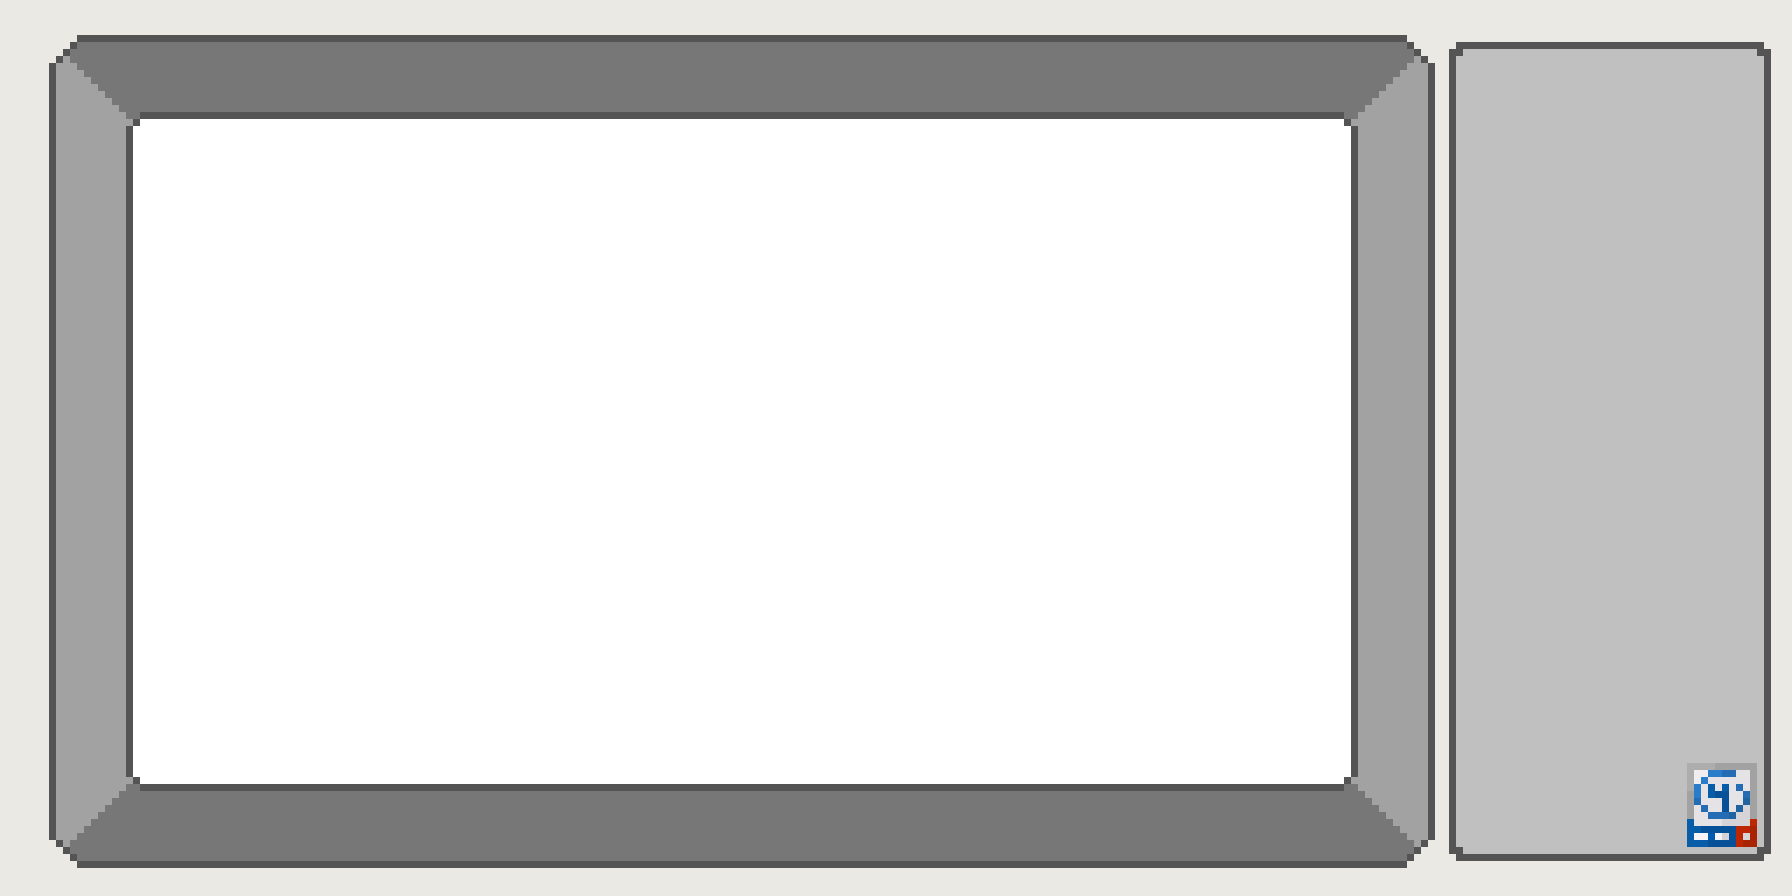
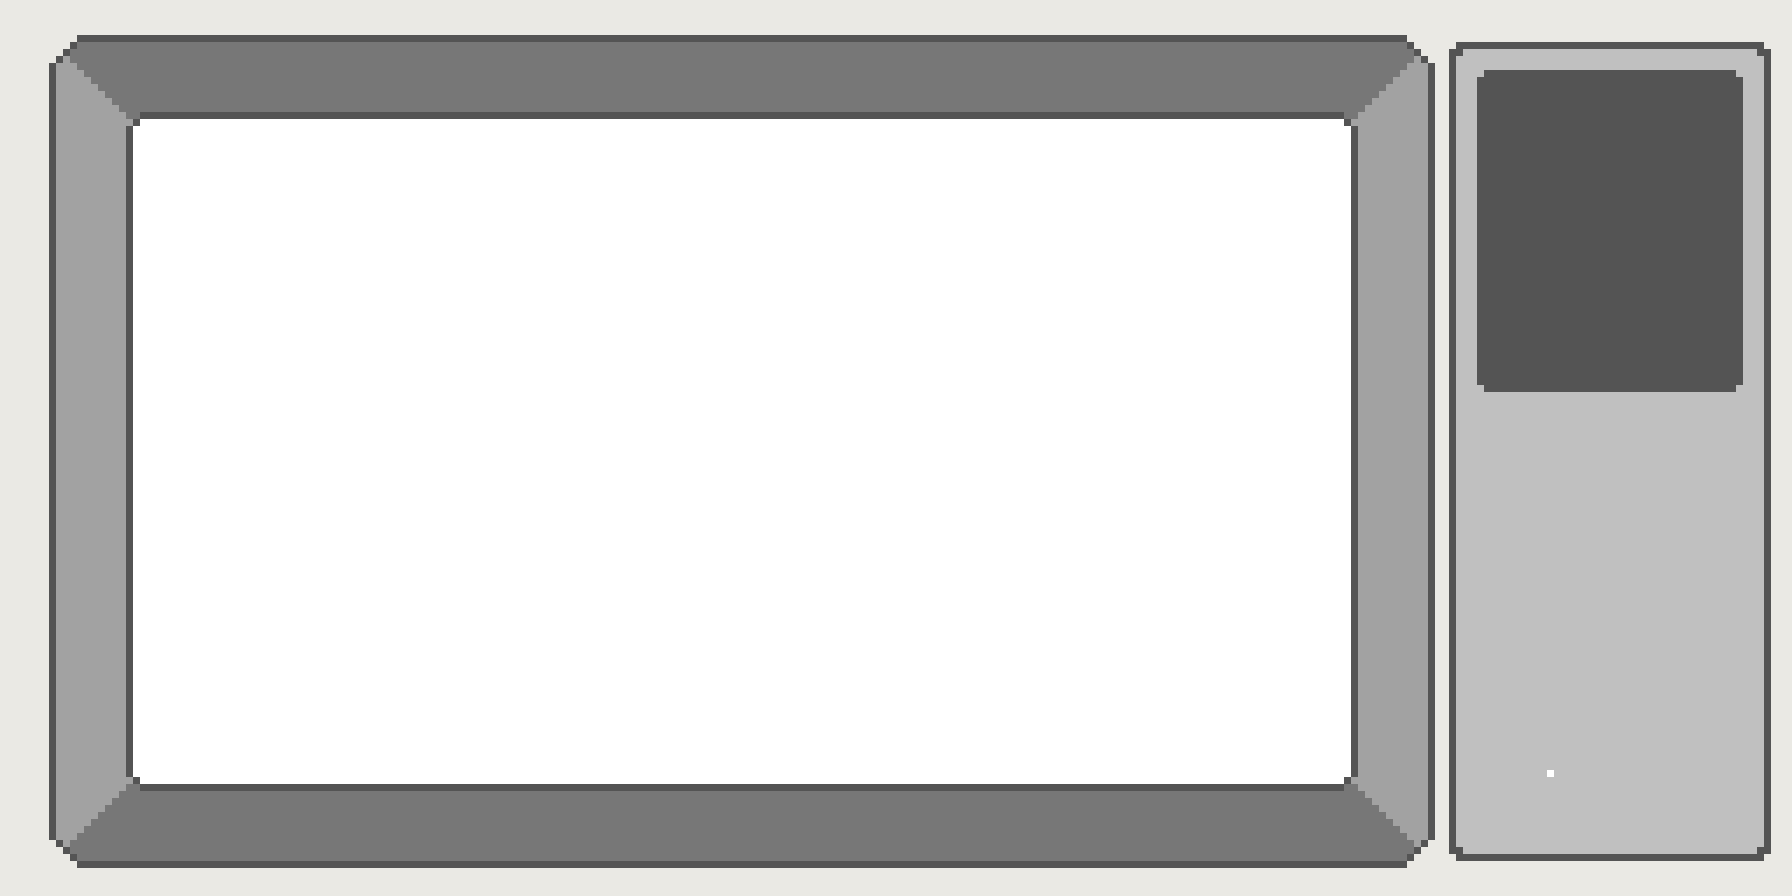
wave y nueva barra

Changed region(s): [[0.8125, 0.0625, 1.0, 0.4375], [0.9375, 0.8438, 1.0, 0.9688]]

diff --git a/js/script.js b/js/script.js
@@ -6,13 +6,39 @@ var bookaboutme = new BookAboutMe();
 var spacescreen= new SpaceScreen();
 var connect4 = new Connect4();
 
-
+function hashGet(){
+    switch(location.hash){
+        case '#Arcade': newstage=2; stage=2; state=0; break;
+        case '#SobreMi': newstage=100; stage=100; state=0; break;
+        case '#Connected4': newstage=101; stage=101; state=0; break;
+        case '#Space': newstage=1; stage=1; state=0; break;
+        case '#Start': newstage=0; stage=0; state=0; break;
+        case '#Pc': newstage=0; stage=0; state=1; break;
+    }
+    //console.log(location.hash)
+}
+hashGet();
+function hashSet(){
+    if(state==0){
+        switch(stage){
+            case 2: location.hash='#Arcade'; break;
+            case 100: location.hash='SobreMi'; break;
+            case 101: location.hash='Connected4'; break;
+            case 1: location.hash='Space'; break;
+            case 0: location.hash='Start'; break;
+        }
+    }else if(state==1){
+        location.hash='Pc'
+    }
+    //console.log(location.hash)
+}
+hashSet();
 
 var testtext='Lorem ipsum dolor sit amet consectetur adipiscing elit Sed felis lorem, rhoncus id accumsan id congue et justo. Fusce eget sem mollis';
 var dialogtext=new WriteParagraph(textConvert(testtext, 36),6,position={x:64,y:82}, 121,25,'black',7,true) 
 var dialog=false  
 var colors=[true,true,true]; //Azul, Rojo, Amarillo
-var stringcolors=['#292929','#274bd9','#ac3232','#ccc42d','#826fb3','#85c341','#f2a01f','#e0e0c5']  //Negro, Azul, Rojo, Amarillo, Morado, Verde, Naranja, Dorado?
+var stringcolors=['#292929','#274bd9','#ac3232','#ccc42d','#826fb3','#85c341','#f2a01f','#ffffff']  //Negro, Azul, Rojo, Amarillo, Morado, Verde, Naranja, Dorado?
 var displaycolor=7;
 
 function changeColor(){
@@ -249,6 +275,7 @@ function tvClickEvents(click){
                             document.body.style.backgroundColor = "#eae9e4";
                             state=1
                         }
+                        
                     }
                 }else{
                     if(button.column==2)button.column=0
@@ -276,7 +303,7 @@ function pcClickEvents(click) {
         
     }
     //PANEL CONTROL
-    if (mousePosition(controlerborder)) {
+    if (mousePosition(controlerpcborder)) {
         //console.log('Activo')
         //BOTON APAGADO
         if (mousePosition(pcinterface.button)) {            
@@ -298,7 +325,14 @@ function pcClickEvents(click) {
                 //console.log('fff')
             }
             //console.log('aaa')
-        }       
+        }else if(mousePosition(pcinterface.pcwavebars[2].pointer)){ //frecuencia ondas
+            if(mousemove.mouseDown){
+                pcinterface.pcwavebars[2].move()
+                pcinterface.wave.frequency=pcinterface.pcwavebars[2].value
+                //console.log('fff')
+            }
+            //console.log('aaa')
+        }         
     }
 }
 
@@ -359,7 +393,7 @@ function animate(){
   
     if(state==0) showTV();
     else if(state==1) showPC();
-    
+    //controlerpcborder.drawGrid()
 }
 animate(); 
 //#endregion
@@ -416,6 +450,7 @@ window.addEventListener('keyup',({key})=>   //Vemos que tecla se ha pulsado y le
 
 
 window.addEventListener("mousemove", function(e) { 
+    
     var rect = canvas.getBoundingClientRect(), // abs. size of element
         scaleX = canvas.width / rect.width,    // relationship bitmap vs. element for X
         scaleY = canvas.height / rect.height;  // relationship bitmap vs. element for Y
@@ -430,20 +465,35 @@ window.addEventListener("click", function(e) {
 });
 
 window.addEventListener('mousedown', function(e){
+   // getCursorPosition(canvas,e)
     mousemove.mouseDown=true
 })
 window.addEventListener('mouseup', function(e){
     mousemove.mouseDown=false
 })
+function getCursorPosition(canvas, event) {
+    var rect = canvas.getBoundingClientRect() // abs. size of element
+   
+    mousemove.x = event.clientX - rect.left
+    mousemove.y = event.clientY - rect.top
+}
 window.addEventListener('touchstart', function(e){
     mousemove.mouseDown=true
-    console.log('start')
+    
+      
+    
+    console.log('start: '+mousemove.x + mousemove.y)
 })
 window.addEventListener('touchend', function(e){
     mousemove.mouseDown=false
     console.log('stop')
 })
 window.addEventListener('touchmove', function(e){
-    
+    var rect = canvas.getBoundingClientRect(), // abs. size of element
+        scaleX = canvas.width / rect.width,    // relationship bitmap vs. element for X
+        scaleY = canvas.height / rect.height;  // relationship bitmap vs. element for Y
+    mousemove.x=(e.clientX - rect.left) * scaleX;
+    mousemove.y=(e.clientY - rect.top) * scaleY;
+    Pointer(0);
 })
 //#endregion

diff --git a/js/interfaces.js b/js/interfaces.js
@@ -135,11 +135,11 @@ class PcInterface{
     constructor(){        
         //this.button = new ImageDraw(position = { x: 210, y: 108 }, 19, 13, imgTVButton, 1, 5)
         //BOTONES E INTERFAZ DEL PC
-        this.button= new ImageDraw(position = {x:210,y:106},13,14, imgPcButton,0,1)
-        this.pcdisk= new ImageDraw(position={x:209,y:87}, 42,17,imgPcDisk)
+        this.button= new ImageDraw(position = {x:210,y:107},13,14, imgPcButton,0,1)
+        this.pcdisk= new ImageDraw(position={x:209,y:90}, 42,16,imgPcDisk)
         this.lights=[]
         for(let i=0;i<3;i++){
-            this.lights.push(new ImageDraw(position={x:233,y:106+5*i}, 4,4,imgPcLight,0,i,'',1,50))
+            this.lights.push(new ImageDraw(position={x:233,y:107+5*i}, 4,4,imgPcLight,0,i,'',1,50))
             this.lights[i].timecounter=getRndInteger(5,this.lights[i].maxtimecounter)
             this.lights[i].random.min=5; this.lights[i].random.max=50;
             this.lights[i].randomframechange=true
@@ -150,17 +150,22 @@ class PcInterface{
     //                            ]
         this.pcdisplay= new ImageDraw(position={x:211,y:10},38,55,imgPcWave)
 
-        this.wave= new PcWave(position={x:212,y:10},36,44)
+        this.wave= new PcWave(position={x:211,y:10.5},36,34.5)
         //Array de las barras para modificar la onda
-        this.pcwavebars=[new PcWaveBar(new ImageDraw(position={x:212,y:67}, 36,5,imgPcSelectorBar),
-                                        new ImageDraw(position={x:220,y:65}, 6,10,imgPcSelectorButton,0),
+        this.pcwavebars=[new PcWaveBar(new ImageDraw(position={x:212,y:59}, 36,5,imgPcSelectorBar), //Amplitud
+                                        new ImageDraw(position={x:220,y:57}, 6,10,imgPcSelectorButton,0),
                                         20,100),
-                        new PcWaveBar(new ImageDraw(position={x:212,y:78}, 36,5,imgPcSelectorBar),
-                                        new ImageDraw(position={x:235,y:76}, 6,10,imgPcSelectorButton,1),
-                                        0.05,0.25)]
+                        new PcWaveBar(new ImageDraw(position={x:212,y:70}, 36,5,imgPcSelectorBar),  //Longitud
+                                        new ImageDraw(position={x:235,y:68}, 6,10,imgPcSelectorButton,1),
+                                        0.05,0.25),
+                        new PcWaveBar(new ImageDraw(position={x:212,y:81}, 36,5,imgPcSelectorBar),  //Frecuencia
+                                        new ImageDraw(position={x:220,y:79}, 6,10,imgPcSelectorButton,2),
+                                        0.1,0.8)
+                        ]
 
         this.wave.amplitude= ((this.pcwavebars[0].max-this.pcwavebars[0].min)*((this.pcwavebars[0].pointer.position.x-this.pcwavebars[0].bar.position.x)/this.pcwavebars[0].bar.width))+this.pcwavebars[0].min
         this.wave.lenght= ((this.pcwavebars[1].max-this.pcwavebars[1].min)*((this.pcwavebars[1].pointer.position.x-this.pcwavebars[1].bar.position.x)/this.pcwavebars[1].bar.width))+this.pcwavebars[1].min
+        this.wave.frequency= ((this.pcwavebars[2].max-this.pcwavebars[2].min)*((this.pcwavebars[2].pointer.position.x-this.pcwavebars[2].bar.position.x)/this.pcwavebars[2].bar.width))+this.pcwavebars[2].min
          
 
         this.toolbar= new ImageDraw(position={x:19,y:104},175,8,imgPcToolBar)
@@ -212,13 +217,15 @@ class PcInterface{
         }) 
         this.pcdisk.draw()
         this.button.drawSprite()
+
+        this.wave.draw()
         this.pcdisplay.drawSprite()
         /*this.lights.forEach((light)=>{
             light.drawAnimatedSprite()
         })*/
         this.showLights()
        // this.wave.drawGrid()
-        this.wave.draw()
+        
 
         
     }

diff --git a/js/load.js b/js/load.js
@@ -60,6 +60,7 @@ class Border{
 }
 var border = new Border(position={x:19,y:17},174,95);
 var controlerborder =new Border(position={x:207,y:63},46,60);
+var controlerpcborder = new Border(position={x:207,y:53},46,70)
 //Funcion que me diga cuando un objeto se ha salido de la pantalla
 function offScreen(object){
     if(object.position.x>border.position.x+border.width ||
@@ -623,5 +624,6 @@ function transitionStages(){
        
 
     })
+    hashSet(); //Pones el hash de la pagina en el navegador
 }
 //#endregion
